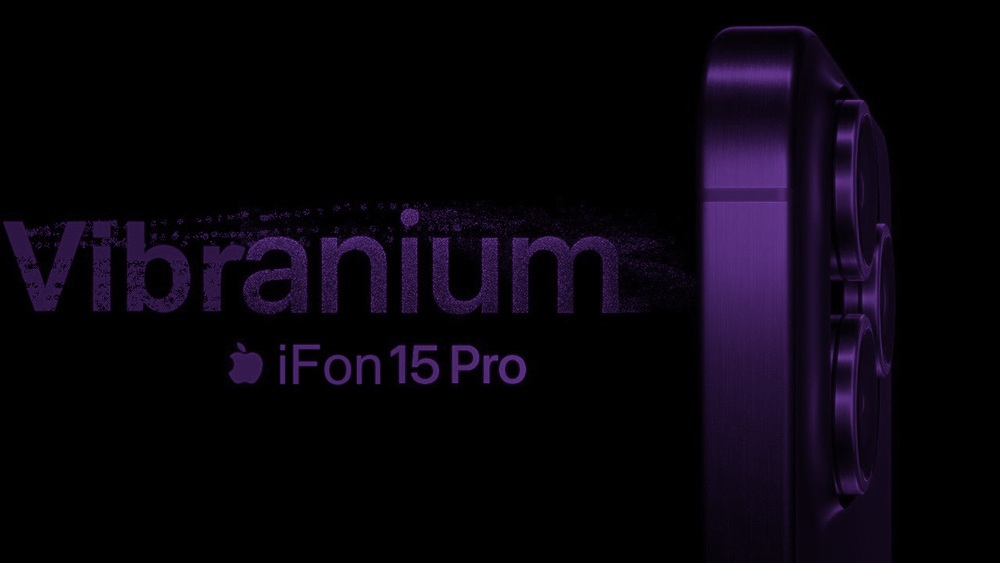
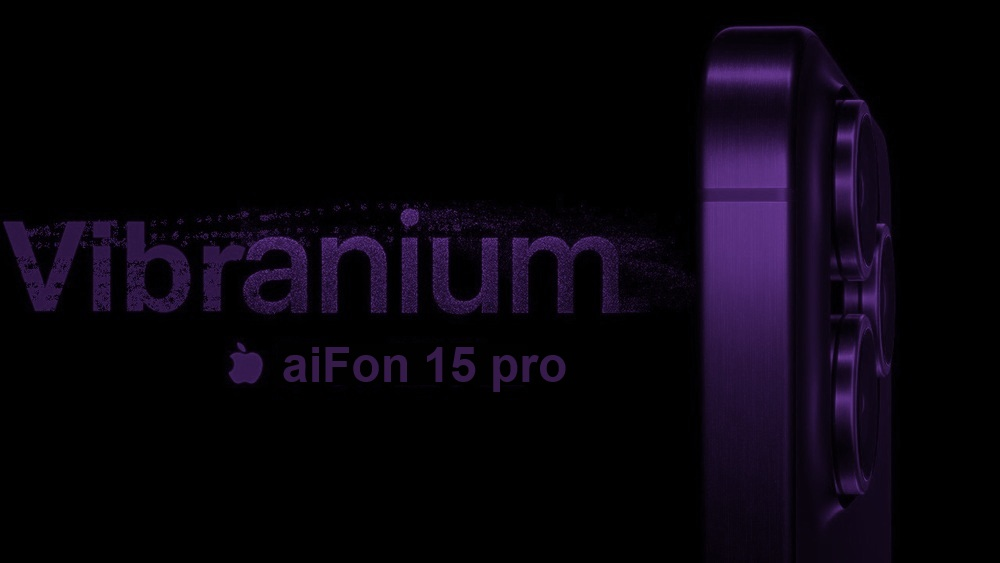
231217-1225 YK-PRODUCTS: - Fixed images

Changed region(s): [[0.279, 0.6039, 0.589, 0.6945]]

diff --git a/products.html b/products.html
@@ -25,19 +25,19 @@
     </div>
 
     <main>
-        <img src="media/vibraniumposter.jpg" alt="iFon 15 Pro Vibranium">
+        <img src="media/vibraniumposter.jpg" alt="aiFon 15 Pro Vibranium">
         <br><br>
         <div class="wrapper">
 
-            <h2 class="title" id="phone">Epal iFon Series</h2>
+            <h2 class="title" id="phone">Epal aiFon Series</h2>
             <div class="products">
                 <div class="product-box">
                     <div class="product-img">
-                        <img src="media/ifon15pro.jpg" alt="iFon 15 Pro">
+                        <img src="media/aifon15pro.jpg" alt="aiFon 15 Pro">
                     </div>
                     <div class="product-text">
                         <p class="newproduct">New!</p>
-                        <h5>Epal iFon 15 pro</h5>
+                        <h5>Epal aiFon 15 pro</h5>
                         <ul>
                             <li>6.7″ or 6.1″<br>Super Retina XDR display</li>
                             <li>Textured vibranium back</li>
@@ -54,11 +54,11 @@
 
                 <div class="product-box">
                     <div class="product-img">
-                        <img src="media/ifon15pro.jpg" alt="iFon 15">
+                        <img src="media/aifon15pro.jpg" alt="aiFon 15">
                     </div>
                     <div class="product-text">
                         <p class="newproduct"><br></p>
-                        <h5>Epal iFon 15</h5>
+                        <h5>Epal aiFon 15</h5>
                         <ul>
                             <li>6.7″ or 6.1″<br>Super Retina XDR display</li>
                             <li>Textured vibranium back</li>
@@ -75,11 +75,11 @@
 
                 <div class="product-box">
                     <div class="product-img">
-                        <img src="media/ifon14.jpg" alt="Epal iFon 14">
+                        <img src="media/aifon14.jpg" alt="Epal aiFon 14">
                     </div>
                     <div class="product-text">
                         <p class="newproduct"><br></p>
-                        <h5>Epal iFon 14</h5>
+                        <h5>Epal aiFon 14</h5>
                         <ul>
                             <li>6.7″ or 6.1″<br>Super Retina XDR display</li>
                             <li>Textured vibranium back</li>
@@ -96,11 +96,11 @@
 
                 <div class="product-box">
                     <div class="product-img">
-                        <img src="media/ifon13.jpg" alt="Epal iFon 13">
+                        <img src="media/aifon13.jpg" alt="Epal aiFon 13">
                     </div>
                     <div class="product-text">
                         <p class="newproduct"><br></p>
-                        <h5>Epal iFon 13</h5>
+                        <h5>Epal aiFon 13</h5>
                         <ul>
                             <li>6.7″ or 6.1″<br>Super Retina XDR display</li>
                             <li>Textured vibranium back</li>

diff --git a/style.css b/style.css
@@ -173,7 +173,7 @@ footer{
 }
 
 .product-img{
-    width: 40%;
+    max-width: 140px;
     margin: 10px auto 0;
 }
 
